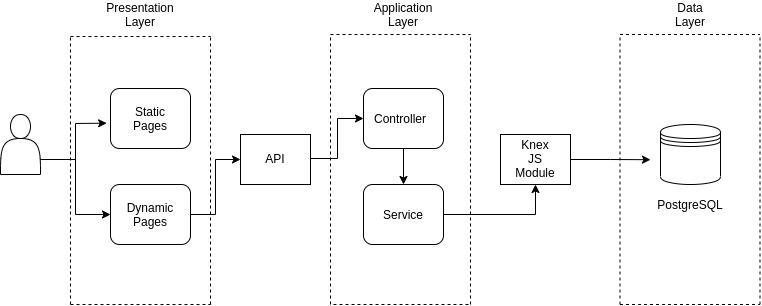
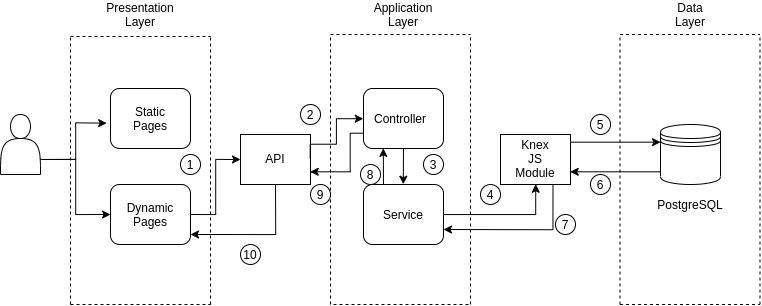
Fixed service module

diff --git a/public/backend/main.html b/public/backend/main.html
@@ -46,24 +46,24 @@
 <p style="padding-left: 60px;"><strong>SPECIFICATION</strong></p>
 <p style="padding-left: 60px;"><strong>Web Architecture</strong></p>
 <p style="padding-left: 60px;"><img src="WebArchitecture.png" alt="WebArchitecture" /></p>
-<p style="padding-left: 60px;"><br />Presentation layer is composed by dynamic and static pages. The former is able, through AJAX calls and the REST API, to access database in order to retrieve data.<br />Knex module has been used to connect the database.</p>
+<p style="padding-left: 60px;"><br />The presentation layer is composed of static and dynamic pages, both in html format. The dynamic pages interface to the application layer through the REST API. The controller calls the respective service which in turn uses the knex module to retrieve the information requested from the database. Then the controller converts the information received from the service into JSON format which is returned and integrated into the page. The image above shows the sequence of calls for the dynamic page to be filled with data from the database. </p>
 <p style="padding-left: 60px;"><strong>API</strong><br /><strong>REST compliance</strong></p>
 <p style="padding-left: 60px;">REST API has been written taking into account that every resource must have an unique identifier and must be located under an intuitive path. <br /> For example, the artistic events' list can be found under the path: /artisticEvents, to get a specific event: /artisticEvents/4 and if the id doesn't exist in the database the response will contain an HTTP code error describing what's wrong (400 for bad request, 404 for not found and 401 unauthorized). We used GET and POST http method to get/send data to the database.</p>
 <p style="padding-left: 60px;"><br /><strong>OpenAPI Resource models</strong></p>
-<p style="padding-left: 60px;">Performer: contains the identifier, name and a biography<br />Artistic Event: contains the identifier, name, date, description<br />Seminar: contains the identifier, name, date, description&nbsp;<br />User: contains username and password<br /><br /><strong>Data model</strong></p>
+<p style="padding-left: 60px;">Performer: contains the identifier, name and a biography<br />Artistic Event: contains the identifier, name, date, description<br />Seminar: contains the identifier, name, date, description<br />User: contains username and password<br /><br /><strong>Data model</strong></p>
 <p style="padding-left: 60px;"><br /><img src="ERDiagram.png" alt="ERDiagram" /></p>
 <p style="padding-left: 60px;">The main entities are 'performer', 'artisticEvent', 'seminar' and 'user' and additional support tables used to make queries. Database main entities' attributes mirrors the API data models.</p>
 <p style="padding-left: 60px;"><br /><strong>IMPLEMENTATION</strong><br /><strong>Tools used</strong></p>
-<p style="padding-left: 60px;">We used Swagger.io tools to write the REST API and to generate the NodeJS server, JavaScript to write the code, npm to manage various packages like Knex that has been used to connect to the postgresSQL database.<br />We also used pgadmin4 in order to populate the database and to visualize tables and rows more easily.</p>
+<p style="padding-left: 60px;">We used Swagger.io tools to write the REST API and to generate the NodeJS server, JavaScript to write the code, npm to manage various packages like Knex that has been used to connect to the postgresSQL database.<br />We also used pgadmin4 in order to populate the database and to visualize tables.</p>
 <p style="padding-left: 60px;"><strong>Discussion</strong><br />- <em>How did you make sure your web application adheres to the provided OpenAPI specification? Which method did you use to test all APIs endpoints against the expected response?</em></p>
-<p style="padding-left: 60px;">We made sure to adheres to the provided OpenAPI specification by writing the API and by generating the server using Swagger.io tools.<br />In order to test the endpoints we used the Swagger UI page to send request and verifing the responses.</p>
+<p style="padding-left: 60px;">We made sure to adheres to the provided OpenAPI specification by writing the API and by generating the server using Swagger.io tools.<br />In order to test the endpoints we used the Swagger UI page to send requests and verifing the responses.</p>
 <p style="padding-left: 60px;"><br />- <em>Why do you think your web application adheres to common practices to partition a REST-based web application (static assets vs. application data)</em></p>
-<p style="padding-left: 60px;">All the static assets (static html pages and images) are located inside the public folder while all the dynamic pages are served through&nbsp;HTTP request and filled using AJAX calls.</p>
+<p style="padding-left: 60px;">All the static assets (static html pages and images) are located inside the public folder while all the dynamic pages are served through HTTP request and filled using AJAX calls.</p>
 <p style="padding-left: 60px;"><br />-<em> Describe synthetically why and how did you manage session state, what are the state change triggering actions (e.g., POST to login etc..).</em></p>
-<p style="padding-left: 60px;">Session state is managed by using a client-side cookie, generated after a sign up or a login, and erased after a logout.<br />We used a POST request to '/user/register' that creates a cookie client side if the provided informations are valid (the user doesn't exist already).<br />We used a POST request to '/user/login' that creates a cookie client side if the provided informations are in the database.<br />We used a GET request to '/user/logout' that simply erase the cookie and redirect to the main page.</p>
+<p style="padding-left: 60px;">Session state is managed by using a client-side cookie, generated after a sign up or a login, and erased after a logout.<br />We used a POST request to '/user/register' that creates a cookie client side if the provided informations are valid (if the user doesn't exist already).<br />We used a POST request to '/user/login' that creates a cookie client side if the provided informations are valid.<br />We used a GET request to '/user/logout' that simply erase the cookie and redirect to the main page.</p>
 <p style="padding-left: 60px;"><br />- <em>Which technology did you use (relational or a no-SQL database) for managing the data model?</em></p>
 <p style="padding-left: 60px;">We used PostgreSQL relational database.</p>
 <p style="padding-left: 60px;"><br /><strong>OTHER INFORMATION</strong><br /><strong>Task assignment</strong></p>
-<p style="padding-left: 60px;">Marco worked on front end (90%) and API specification (10%)<br />Mattia worked on backend (60%), database (20%) and API specification (20%)<br />Bruno worked on application design (60%) and frontend (40%)</p>
+<p style="padding-left: 60px;">Marco Melis worked on front end (90%) and API specification (10%)<br />Mattia Massarini worked on backend (60%), database (20%) and API specification (20%)<br />Bruno Sciarrone worked on application design (60%) and frontend (40%)</p>
 <p style="padding-left: 60px;"><strong>Analysis of existing API</strong></p>
-<p style="padding-left: 60px;">We had a glimpse of what an OpenAPI specification looks like from the Pet Store API provided by Swagger.io , then since our application is about a music festival and not a store we took partial inspiration from API <a href="https://developer.ticketmaster.com/products-and-docs/apis/discovery-api/v2/">https://developer.ticketmaster.com/products-and-docs/apis/discovery-api/v2/</a> for the part of the API that manages the artistic events because both applications serve similar purpose, for example showing a list of events or a specific event.<br />In particular we took inspiration on how to organize endpoints to get resources by specifing an unique ID.<br />After that we extended the same concept throughout performers and seminars endpoints as well.<br /><br /><strong>Learning outcome</strong><br /><br />Marco Melis learnt HTML, CSS, Javascript and REST API.<br />Mattia Massarini learnt NodeJs, Javascript, database organization/ queries and REST API<br />Bruno Sciarrone learnt HTML, CSS and Javascript</p>
+<p style="padding-left: 60px;">We had a glimpse of what an OpenAPI specification looks like from the Pet Store API provided by Swagger.io, then, since our application is about a music festival and not a store, we took partial inspiration from API <a href="https://developer.ticketmaster.com/products-and-docs/apis/discovery-api/v2/">https://developer.ticketmaster.com/products-and-docs/apis/discovery-api/v2/</a> for the part of the API that manages the artistic events because both applications serve similar purpose, for example showing a list of events or a specific event.<br />In particular we took inspiration on how to organize endpoints to get resources by specifing an unique ID.<br />After that we extended the same concept throughout performers and seminars endpoints as well.<br /><br /><strong>Learning outcome</strong><br /><br />Marco Melis learnt HTML, CSS, Javascript and REST API.<br />Mattia Massarini learnt NodeJs, Javascript, database organization/ queries and REST API<br />Bruno Sciarrone learnt HTML, CSS and Javascript</p>

diff --git a/service/ArtisticEventsService.js b/service/ArtisticEventsService.js
@@ -82,7 +82,14 @@ exports.getLinkedSeminarsByEvent = function(artisticEventId) {
 
   return db('eventSeminar').where({'eventSeminar.eventId': artisticEventId})
   .join('seminar', 'seminar.id', '=', 'eventSeminar.seminarId')
-  .select('seminar.*')
+  .select('seminar.*').then(function(linkedSeminars){
+    if(linkedSeminars.length > 0){
+      return linkedSeminars;
+    }
+    else {
+      return respondWithCode(404,{message: 'linked seminars not found'})
+    }
+  })
 
 }
 
@@ -99,6 +106,13 @@ exports.getLinkedPerformersByEvent = function(artisticEventId) {
 
   return db('eventPerformer').where({'eventPerformer.eventId': artisticEventId})
   .join('performer', 'performer.id', '=', 'eventPerformer.performerId')
-  .select('performer.*')
+  .select('performer.*').then(function(linkedPerformers){
+    if(linkedPerformers.length > 0){
+      return linkedPerformers;
+    }
+    else {
+      return respondWithCode(404,{message: 'linked performers not found'})
+    }
+  })
 }
 

diff --git a/service/PerformersService.js b/service/PerformersService.js
@@ -50,5 +50,12 @@ exports.getLinkedEventsByPerformer = function(performerId) {
 
   return db('eventPerformer').where({'eventPerformer.performerId': performerId})
   .join('artisticEvent', 'artisticEvent.id', '=', 'eventPerformer.eventId')
-  .select('artisticEvent.*')
+  .select('artisticEvent.*').then(function(linkedEvents){
+    if(linkedEvents.length > 0){
+      return linkedEvents;
+    }
+    else {
+      return respondWithCode(404,{message: 'linked events not found'})
+    }
+  })
 }
